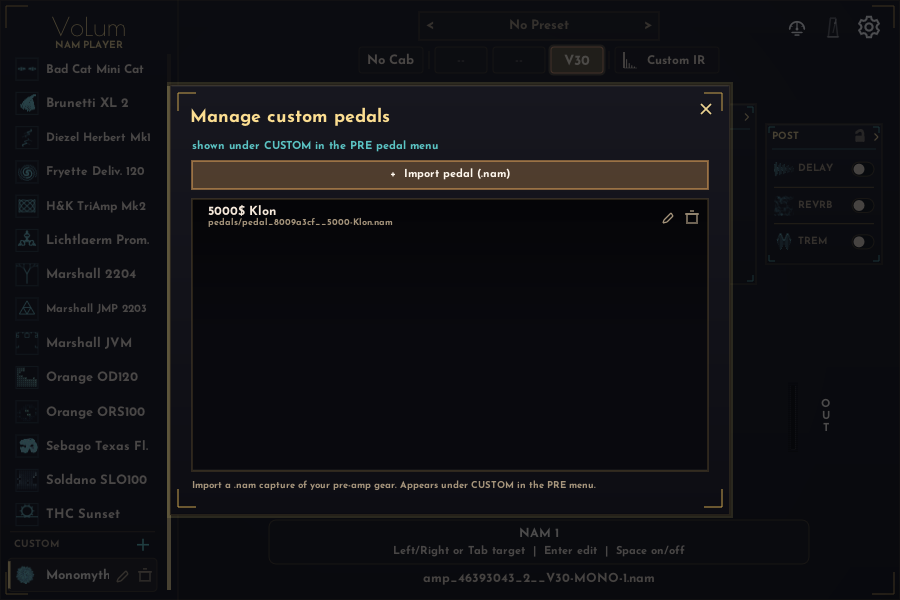
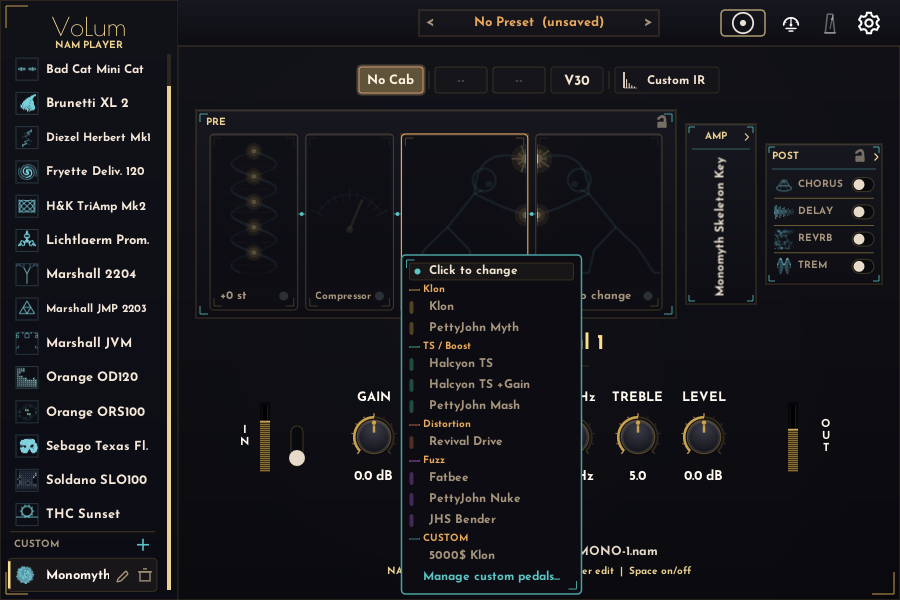
Recapture 1.3.0 BUILD how-to figures so they match current chrome and filled NAM slots.

diff --git a/docs/screenshot-recipes.md b/docs/screenshot-recipes.md
@@ -19,7 +19,9 @@ release, launch with `VOLUM_FAKE_UPDATE=1`. That injects an in-memory 2.0.0
 manifest and does not write `volum-update-state.json`.
 
 Canvas clicks and captures go through `scripts/ui-drive.ps1` (client pixels, one
-process per shot). Do not chain `win-click.ps1` then `capture-volum-canvas.ps1`:
+process per shot). Clicks always run before Keys in the same call: do not put
+`{ESC}` in `-Keys` with a menu-opening `-Clicks`, or the menu closes before
+capture. Do not chain `win-click.ps1` then `capture-volum-canvas.ps1`:
 foreground is lost between processes and PrintWindow returns a blank canvas.
 `win-click.ps1` stays window-relative for ad-hoc probes.
 
@@ -44,11 +46,19 @@ clipboard; do not SendKeys an 8.3 path (`~` is ALT).
   - `scripts/win-click.ps1 -X <x> -Y <y>` - clicks a window-relative pixel.
   - `scripts/win-screenshot.ps1` - full-window capture + a dark-pixel sanity check.
 
-> WARNING: the seed OVERWRITES your personal VoLum library. Back it up first:
-> ```powershell
-> Copy-Item "$env:LOCALAPPDATA\VoLum" "$env:LOCALAPPDATA\VoLum-backup" -Recurse -Force
-> ```
-> Restore it when done by copying the backup back over `$env:LOCALAPPDATA\VoLum`.
+Docs recapture on this machine must drive the sandbox, not the real library.
+`scripts/.ui-sandbox-launch.ps1 -Reseed` copies the seed into
+`%TEMP%\volum-ui-sandbox\VoLum`, redirects `LOCALAPPDATA`, and writes `pid.txt`.
+`ui-drive.ps1` refuses to click unless that pid is the running VoLum. Comp/Pitch
+deltas are sandbox JSON edits between launches without `-Reseed` (do not write
+them into the committed seed: the hero stays Comp off, Pitch off).
+
+If you install the seed over a live library instead, it OVERWRITES that library.
+Back it up first:
+```powershell
+Copy-Item "$env:LOCALAPPDATA\VoLum" "$env:LOCALAPPDATA\VoLum-backup" -Recurse -Force
+```
+Restore it when done by copying the backup back over `$env:LOCALAPPDATA\VoLum`.
 
 ## 1. Install the seed
 
@@ -92,9 +102,11 @@ bring-your-own library:
 At the default launch size the window is ~916x659 and the captured canvas is
 900x600. `win-click.ps1` wants window-relative pixels; canvas point (cx,cy) maps
 to roughly window (cx+8, cy+51). The 1.3.0 capture loop clicks **canvas**
-coordinates: header toggle `(743, 22)`, gear `(869, 22)`, Settings tabs SIGNAL /
-MIDI / SYSTEM `(300, 113)` / `(450, 113)` / `(600, 113)`. Sections switch with
-`1` PRE / `2` AMP / `3` POST; amps switch with `{ESC}` then `{UP}`/`{DOWN}`.
+coordinates: header toggle `(743, 22)`, gear `(869, 22)`, preset bar `(539, 23)`
+(ink band, not the cab row -- F5 is the control's feature name, not a capture
+key; F5 opens the tuner). Settings tabs SIGNAL / MIDI / SYSTEM `(300, 113)` /
+`(450, 113)` / `(600, 113)`. Sections switch with `1` PRE / `2` AMP / `3` POST;
+amps switch with `{ESC}` then `{UP}`/`{DOWN}`.
 
 `win-key.ps1` only lands while VoLum is the foreground window, and merely
 launching it is not enough: click into the window once (`win-click.ps1`) before
@@ -124,18 +136,18 @@ capture with `capture-volum-canvas.ps1 -OutPath docs/user-guide-<name>.png`.
 | `user-guide-settings-signal.png` | any | none | canvas gear `(869, 22)`; Settings opens on the tab it was left on, so click **SIGNAL** `(300, 113)` |
 | `user-guide-settings-midi.png` | any | seed a few `midiSoundMap` entries, one of them pointing at a preset id that does not exist (`preset_gone_forever`), so the list shows assigned rows and a red **Invalid slot** | from Settings, click **MIDI** `(450, 113)` |
 | `user-guide-settings-system.png` | any | none | from Settings, click **SYSTEM** `(600, 113)`. Both **Back up your library** help lines stay inside the card |
-| `user-guide-pre.png` | THC Sunset | `preCompActive=true` (hero keeps Comp off) | `1` then `{RIGHT}{RIGHT}` (focus Klon). Fail if either NAM slot is empty |
-| `user-guide-pre-pedal.png` | THC Sunset | none | from PRE/Klon focused, click (471,251) to open the capture chooser |
-| `user-guide-pitch-transpose.png` | THC Sunset | `prePitchActive=true, prePitchMode=0, prePitchSemitones=-2, prePitchTransChar=2`; Comp off; both NAM still assigned | `1` then `{LEFT}` (focus PITCH) |
-| `user-guide-pitch-octaver.png` | THC Sunset | `prePitchActive=true, prePitchMode=1, prePitchOctDown=0.8, prePitchVoicing=1`; Comp off; both NAM still assigned | `1` then `{LEFT}` |
-| `user-guide-presets.png` | THC Sunset | none (Sunset Crunch bank) | click preset bar (546,76). Menu must show Default, Ready, Sunset Crunch, Manage |
+| `user-guide-pre.png` | THC Sunset | `preCompActive=true` (hero keeps Comp off) | `1` then click Comp card. Fail if either NAM slot is empty |
+| `user-guide-pre-pedal.png` | THC Sunset | none | from PRE, click Klon card `(455, 230)` twice to open the capture chooser |
+| `user-guide-pitch-transpose.png` | THC Sunset | `prePitchActive=true, prePitchMode=0, prePitchSemitones=-2, prePitchTransChar=2`; Comp off; both NAM still assigned | `1` then click Pitch card `(280, 230)` |
+| `user-guide-pitch-octaver.png` | THC Sunset | `prePitchActive=true, prePitchMode=1, prePitchOctDown=0.8, prePitchVoicing=1`; Comp off; both NAM still assigned | `1` then click Pitch card `(280, 230)` |
+| `user-guide-presets.png` | THC Sunset | none (Sunset Crunch bank) | click preset bar `(539, 23)`, then expand FACTORY `(430, 88)` and USER `(430, 112)`. Menu must show Default, Ready, Sunset Crunch, Manage |
 | `user-guide-post.png` | ORS100 (lastAmpIdx 11) | none | `{ESC}` then `{UP}` to 11, `3` (POST; Delay focused). Fail if either NAM slot is an empty `+` |
 | `user-guide-chorus.png` | ORS100 | `postChorusActive=true` | `3` then `{LEFT}` (focus CHORUS) |
 | `user-guide-tremolo.png` | ORS100 | `postDelayActive=false, postTremoloActive=true, postTremoloMode=1` | `3` then `{RIGHT}{RIGHT}` (focus TREM) |
 | `user-guide-dual-amp.png` | Marshall 2204 (lastAmpIdx 7) | none (dual on in sidecar) | `2` (AMP). Fail if either NAM slot is empty |
 | `user-guide-custom-amp.png` | Monomyth (`{ESC}` then 8x `{DOWN}` from Marshall 2204) | none | click pen icon (125,625) to open builder |
 | `user-guide-custom-ir.png` | Monomyth (ch1) | none | click "Custom IR" cab (674,111) |
-| `user-guide-custom-pedal.png` | any | none | `1`, click NAM1 (471,251) twice, click "Manage custom pedals..." (494,628) |
+| `user-guide-custom-pedal.png` | Monomyth | none | `1`, click NAM1 `(455, 230)` twice. The chooser (CUSTOM **5000$ Klon** + **Manage custom pedals...**) is the shot |
 | `user-guide-tuner.png` | THC Sunset | none | key `t`. Background is the filled BUILD hero |
 | `user-guide-metronome.png` | THC Sunset | none | key `m`. Background is the filled BUILD hero |
 | `user-guide-pack-export.png` | any (Soldano map as in PLAY board) | none | canvas gear `(869, 22)`, **SYSTEM** `(600, 113)`, **Export Pack...** `(525, 346)`, scope **Sounds** `(250, 173)`, tick first Sound `(198, 228)`. Fail if the companion band is missing or still says `Also including:` |
